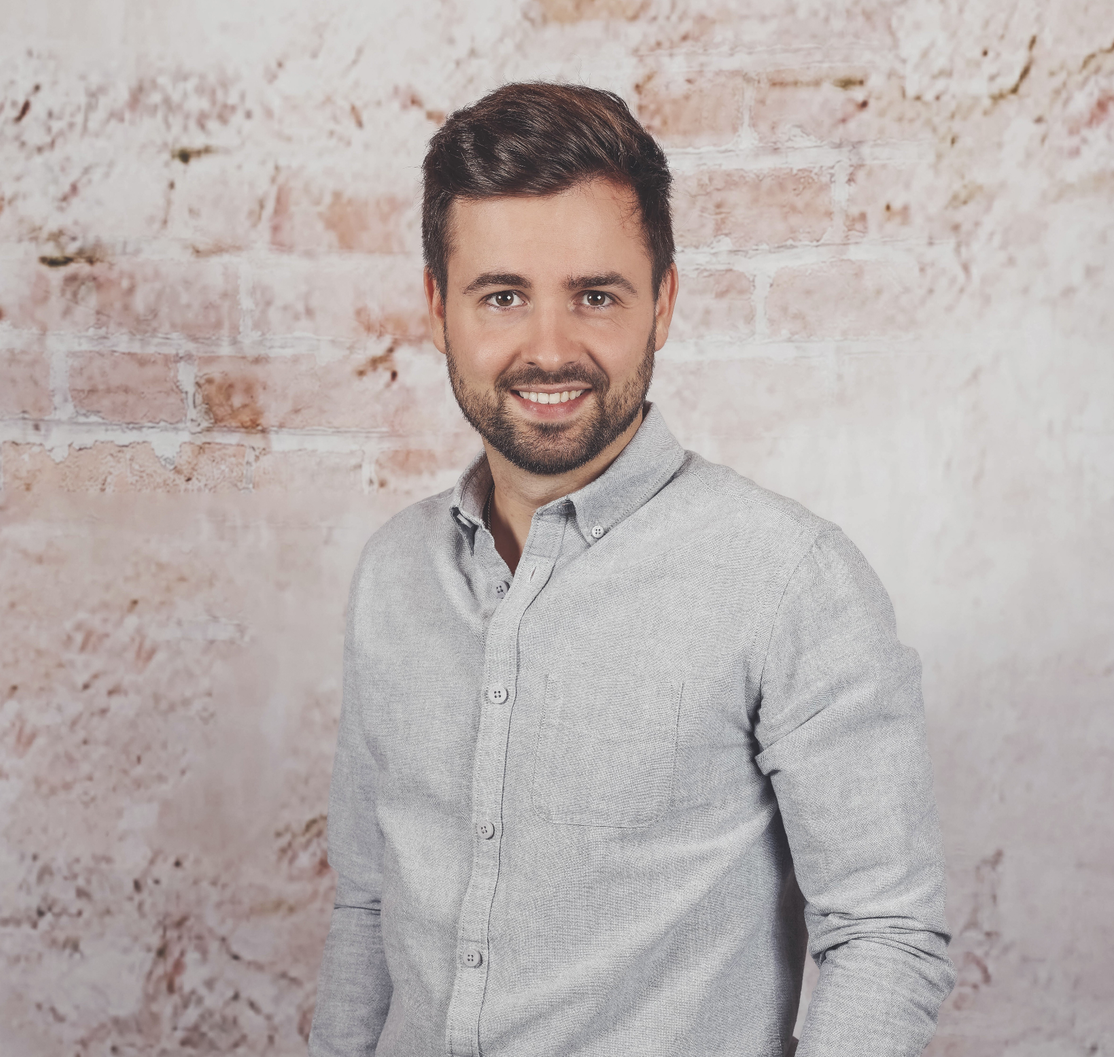
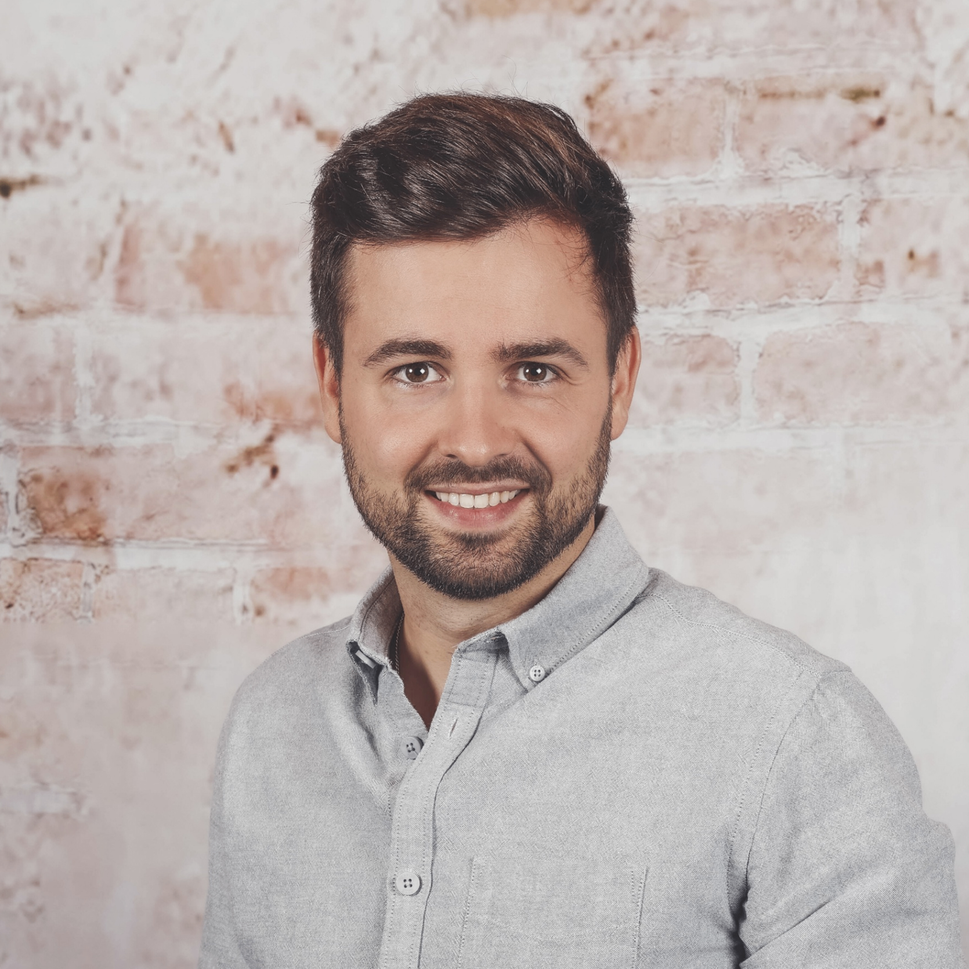
Changes

diff --git a/src/pages/About.tsx b/src/pages/About.tsx
@@ -239,11 +239,7 @@ const About: React.FC = () => {
                       src={member.image} 
                       alt={member.name}
                       className={`w-full h-full object-cover transition-transform duration-500 group-hover:scale-105 ${
-                        member.name === 'Florian Metzger' 
-                          ? 'scale-150 translate-y-[20%]' 
-                          : member.name === 'Alban Halili' 
-                            ? 'object-top' 
-                            : ''
+                        member.name === 'Alban Halili' ? 'object-top' : ''
                       }`}
                     />
                     <div className="absolute inset-0 bg-gradient-to-t from-background/80 to-transparent opacity-0 group-hover:opacity-100 transition-opacity flex items-end justify-center pb-4 gap-3">
